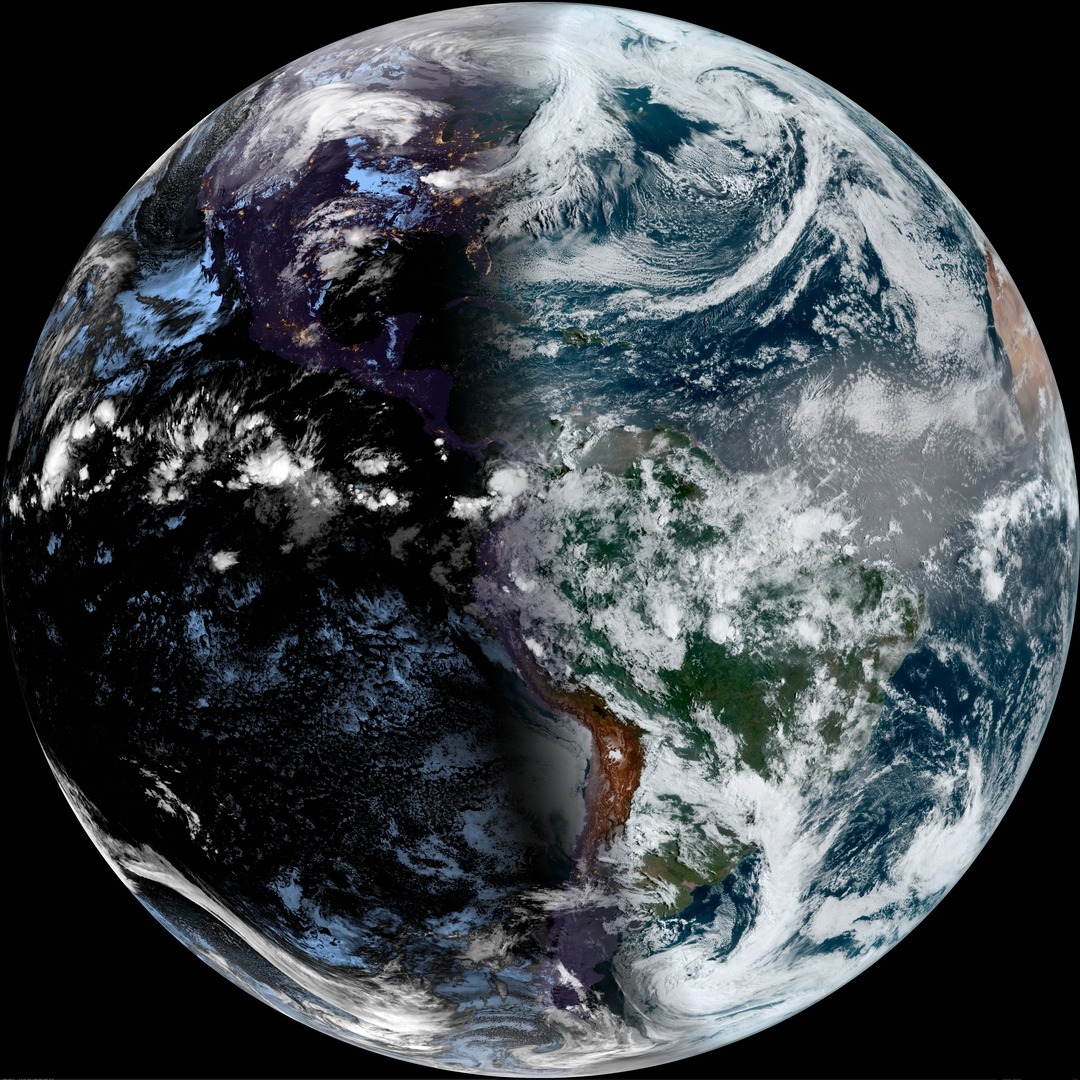
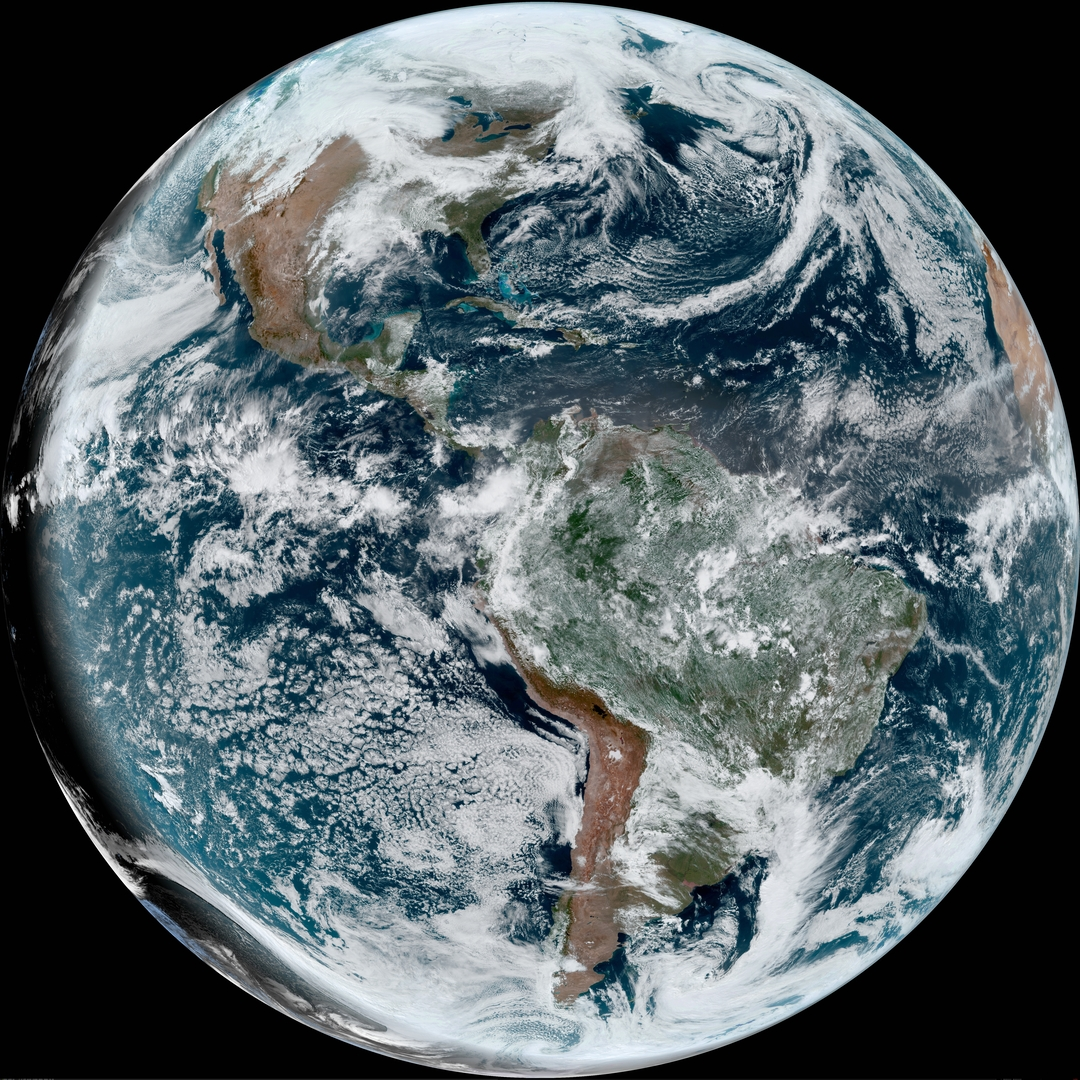
update images

diff --git a/index.html b/index.html
@@ -53,7 +53,7 @@
       <a class="top-bar-link" href="https://github.com/ungoldman/satellites">🐈 github</a>
     </div>
   </nav>
-  <p class="last-updated">Last updated: <date>2022-04-12 @ 12:12 UTC</date>.<br>Updates every 4 hours.</p>
+  <p class="last-updated">Last updated: <date>2022-04-12 @ 16:11 UTC</date>.<br>Updates every 4 hours.</p>
   <div class="sats">
     <img title="GOES-17 Full Disk GeoColor" src="./images/goes-17-latest.jpg">
     <img title="GOES-16 Full Disk GeoColor" src="./images/goes-16-latest.jpg">
